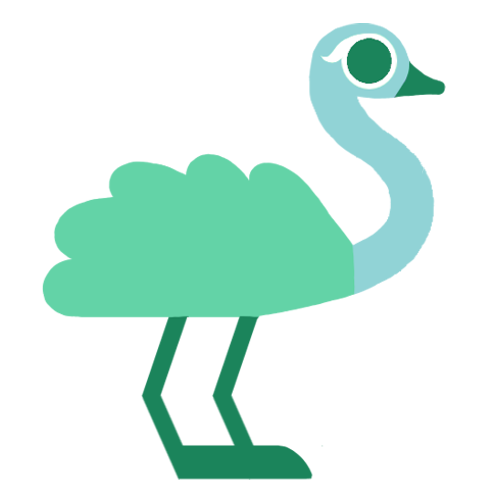
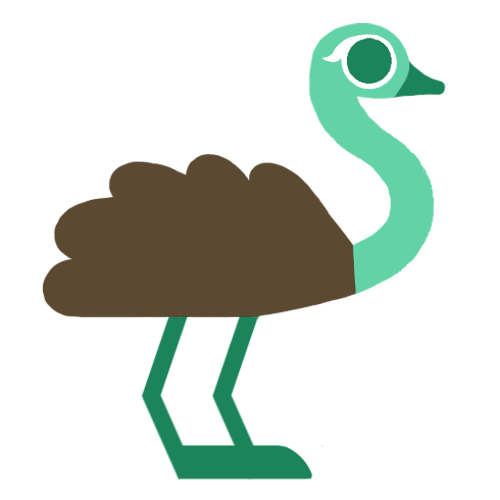
bird new

Changed region(s): [[0.06, 0.03, 0.87, 0.66]]

diff --git a/src/constants/palette.ts b/src/constants/palette.ts
@@ -5,13 +5,13 @@
 export const Palette = {
   // Brand swatches
   moss: '#82D173',
-  lightGreen: '#ABFAA9',
+  lightGreen: '#ad9971',
   steel: '#fabe8c',
   indigo: '#bc7833',
   violet: '#916507',
   charcoal: '#e7a15b',
   grey: '#bf8130',
-  olive: '#899d69',
+  olive: '#cfe1b2',
   tea: '#c7e7a7',
   beige: '#F2FBE0',
 
@@ -22,7 +22,7 @@ export const Palette = {
   mintDeep: '#C9DEE5',
   leaf: '#68a182',
   forest: '#3e724e',
-  forestDark: '#245647',
+  forestDark: '#5b4931',
   ink: '#263a2e',
   muted: '#64747A',
   border: '#D8E3E2',
